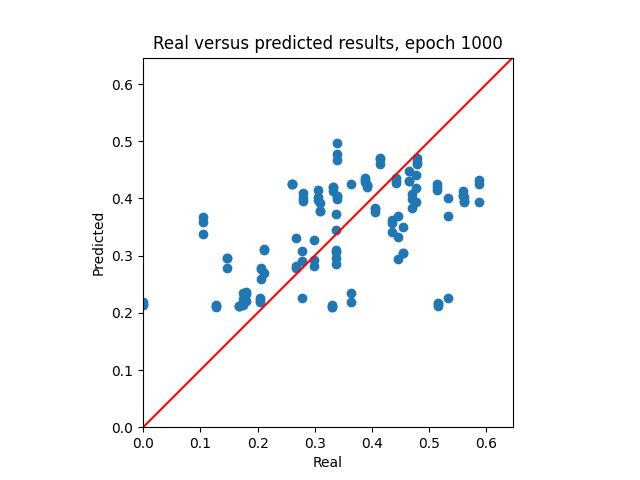
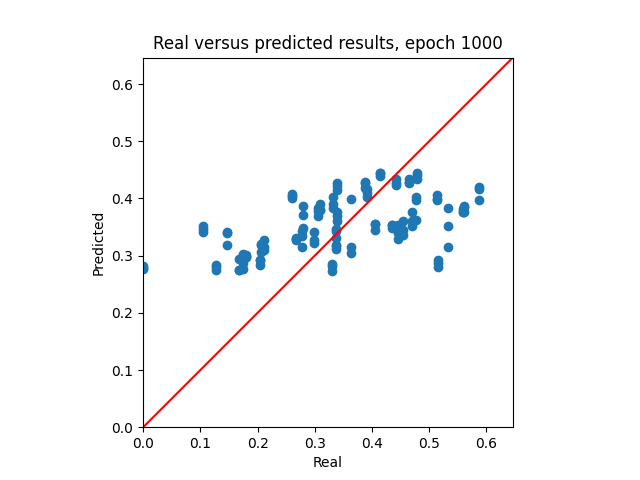
Finish Trial 7 (CNN)

diff --git a/train_stage_two.py b/train_stage_two.py
@@ -125,23 +125,23 @@ class LitModel(L.LightningModule):
             self.head = nn.Sequential(
                 # Layer 1
                 nn.Conv1d(1, 32, 3, 2),
-                nn.BatchNorm1d(32),
+                nn.MaxPool1d(3, 2, 1),
                 nn.LeakyReLU(),
                 # Layer 2
                 nn.Conv1d(32, 64, 3, 2),
-                nn.BatchNorm1d(32),
+                nn.MaxPool1d(3, 2, 1),
                 nn.LeakyReLU(),
                 # Layer 3
                 nn.Conv1d(64, 128, 3, 2),
-                nn.BatchNorm1d(32),
+                nn.MaxPool1d(3, 2, 1),
                 nn.LeakyReLU(),
                 # Layer 4
-                nn.Conv1d(128, 256, 3, 2),
-                nn.BatchNorm1d(32),
-                nn.LeakyReLU(),
+                # nn.Conv1d(128, 256, 3, 2),
+                # nn.BatchNorm1d(256),
+                # nn.LeakyReLU(),
                 # Output
                 nn.Flatten(),
-                nn.Linear(hidden_size, output_dim),
+                nn.Linear(2048, output_dim),
             )
 
         self.current_train_loss = 0.0
@@ -200,8 +200,13 @@ class LitModel(L.LightningModule):
             if self.pca is not None:
                 x = self.pca.transform(noisy_x.numpy(force=True))
                 x = torch.from_numpy(x).type(torch.float32).cuda()
+
+                if not self.fcn:
+                    x = x[:, None, :]
                 y_pred = self.head(x)
             else:
+                if not self.fcn:
+                    noisy_x = noisy_x[:, None, :]
                 y_pred = self.head(noisy_x)
 
         else:
@@ -209,6 +214,9 @@ class LitModel(L.LightningModule):
             if self.pca is not None:
                 x = self.pca.transform(x.numpy(force=True))
                 x = torch.from_numpy(x).type(torch.float32).cuda()
+
+            if not self.fcn:
+                x = x[:, None, :]
 
             y_pred = self.head(x)
         # print(torch.cat((x, backbone_y), dim=-1))
@@ -516,7 +524,7 @@ if __name__ == "__main__":
         output_dim=len(mississippi_labels),
         p=0.5,
         original_label_minmax=(original_label_min, original_label_max),
-        pca=None,
+        pca=pca,
         add_contrastive=False,
         augment=True,
         fcn=False,
